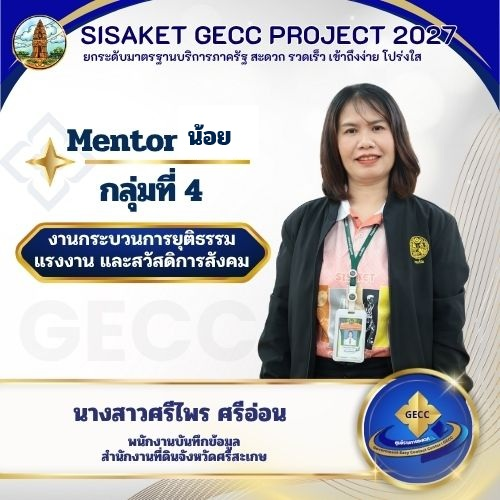
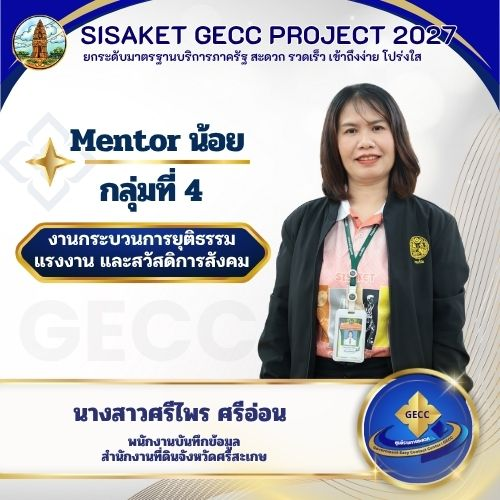
Replace Group 4 Person 4 photo with user uploaded file from รูปเพิ่ม

Changed region(s): [[0.12, 0.24, 0.51, 0.3], [0.15, 0.03, 0.18, 0.06]]

diff --git a/index.html b/index.html
@@ -2677,7 +2677,7 @@ const MENTOR_MEMBERS = {
       [
         "นางสาวศรีไพร ศรีอ่อน",
         "พนักงานบันทึกข้อมูล สำนักงานที่ดินจังหวัดศรีสะเกษ",
-        "assets/images/mentor-group-4-4.jpg?v=2570b",
+        "assets/images/mentor-group-4-4.jpg?v=2570c",
         "MENTOR"
       ]
     ]
